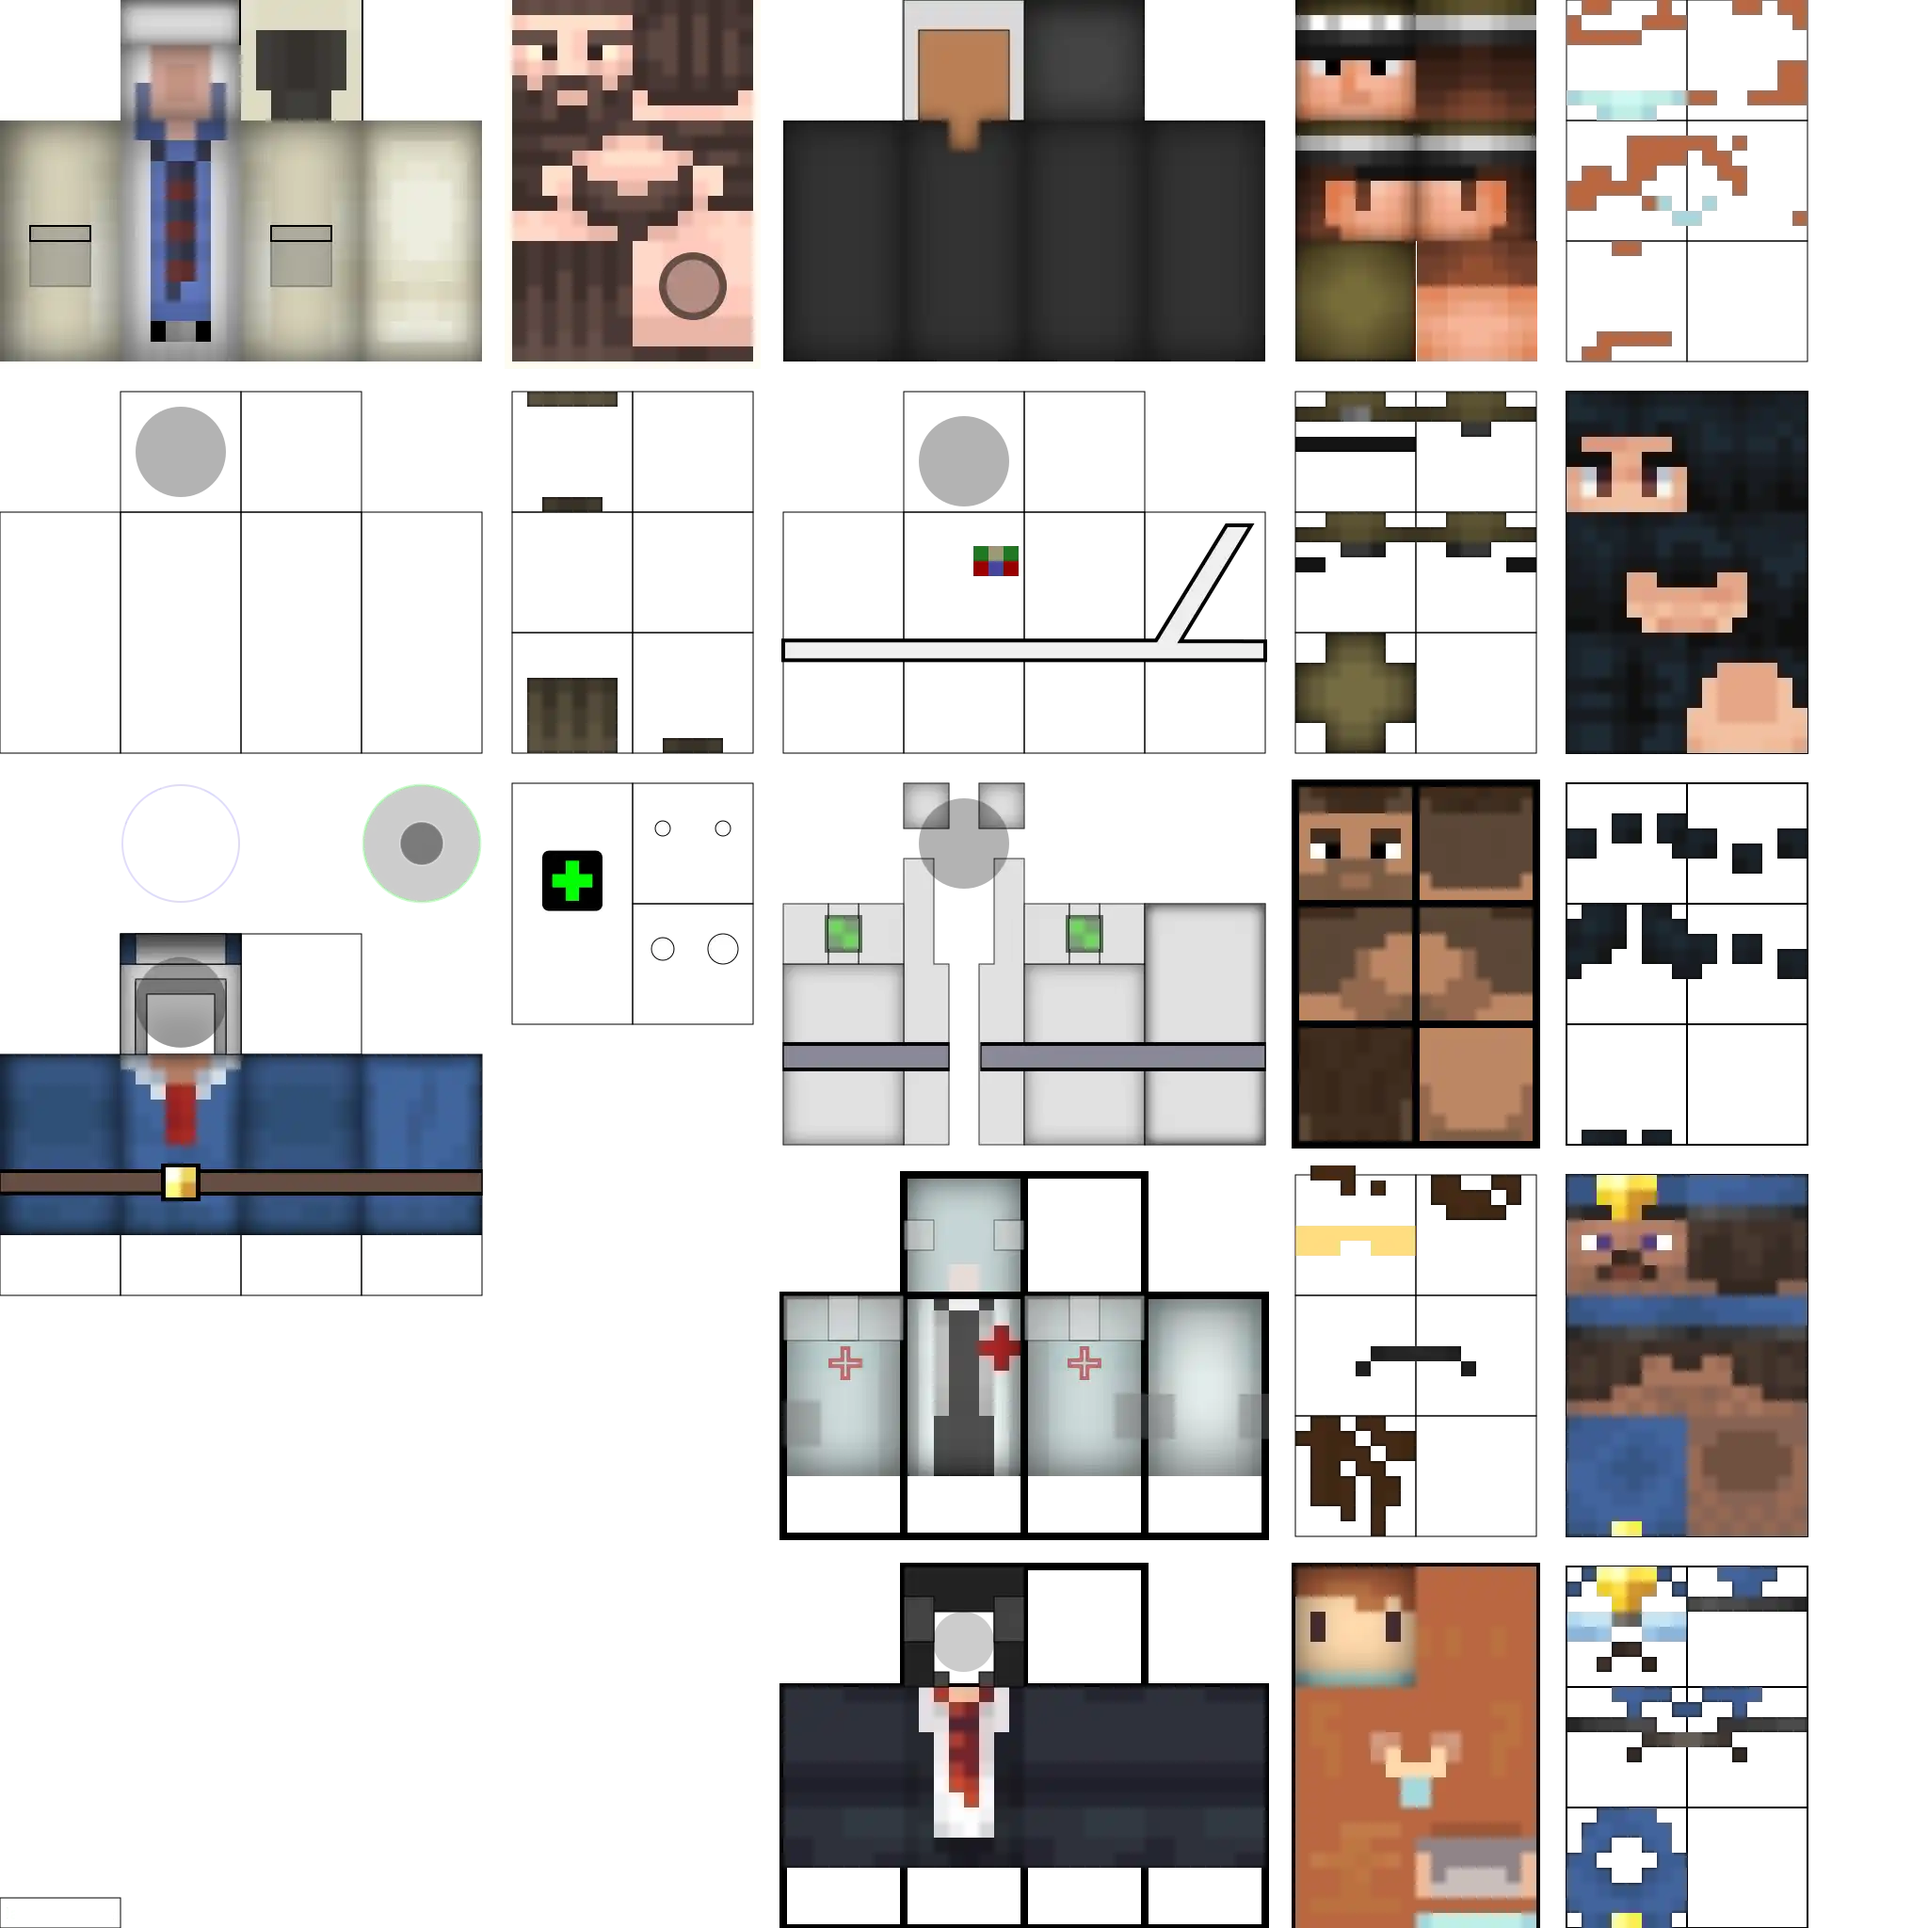
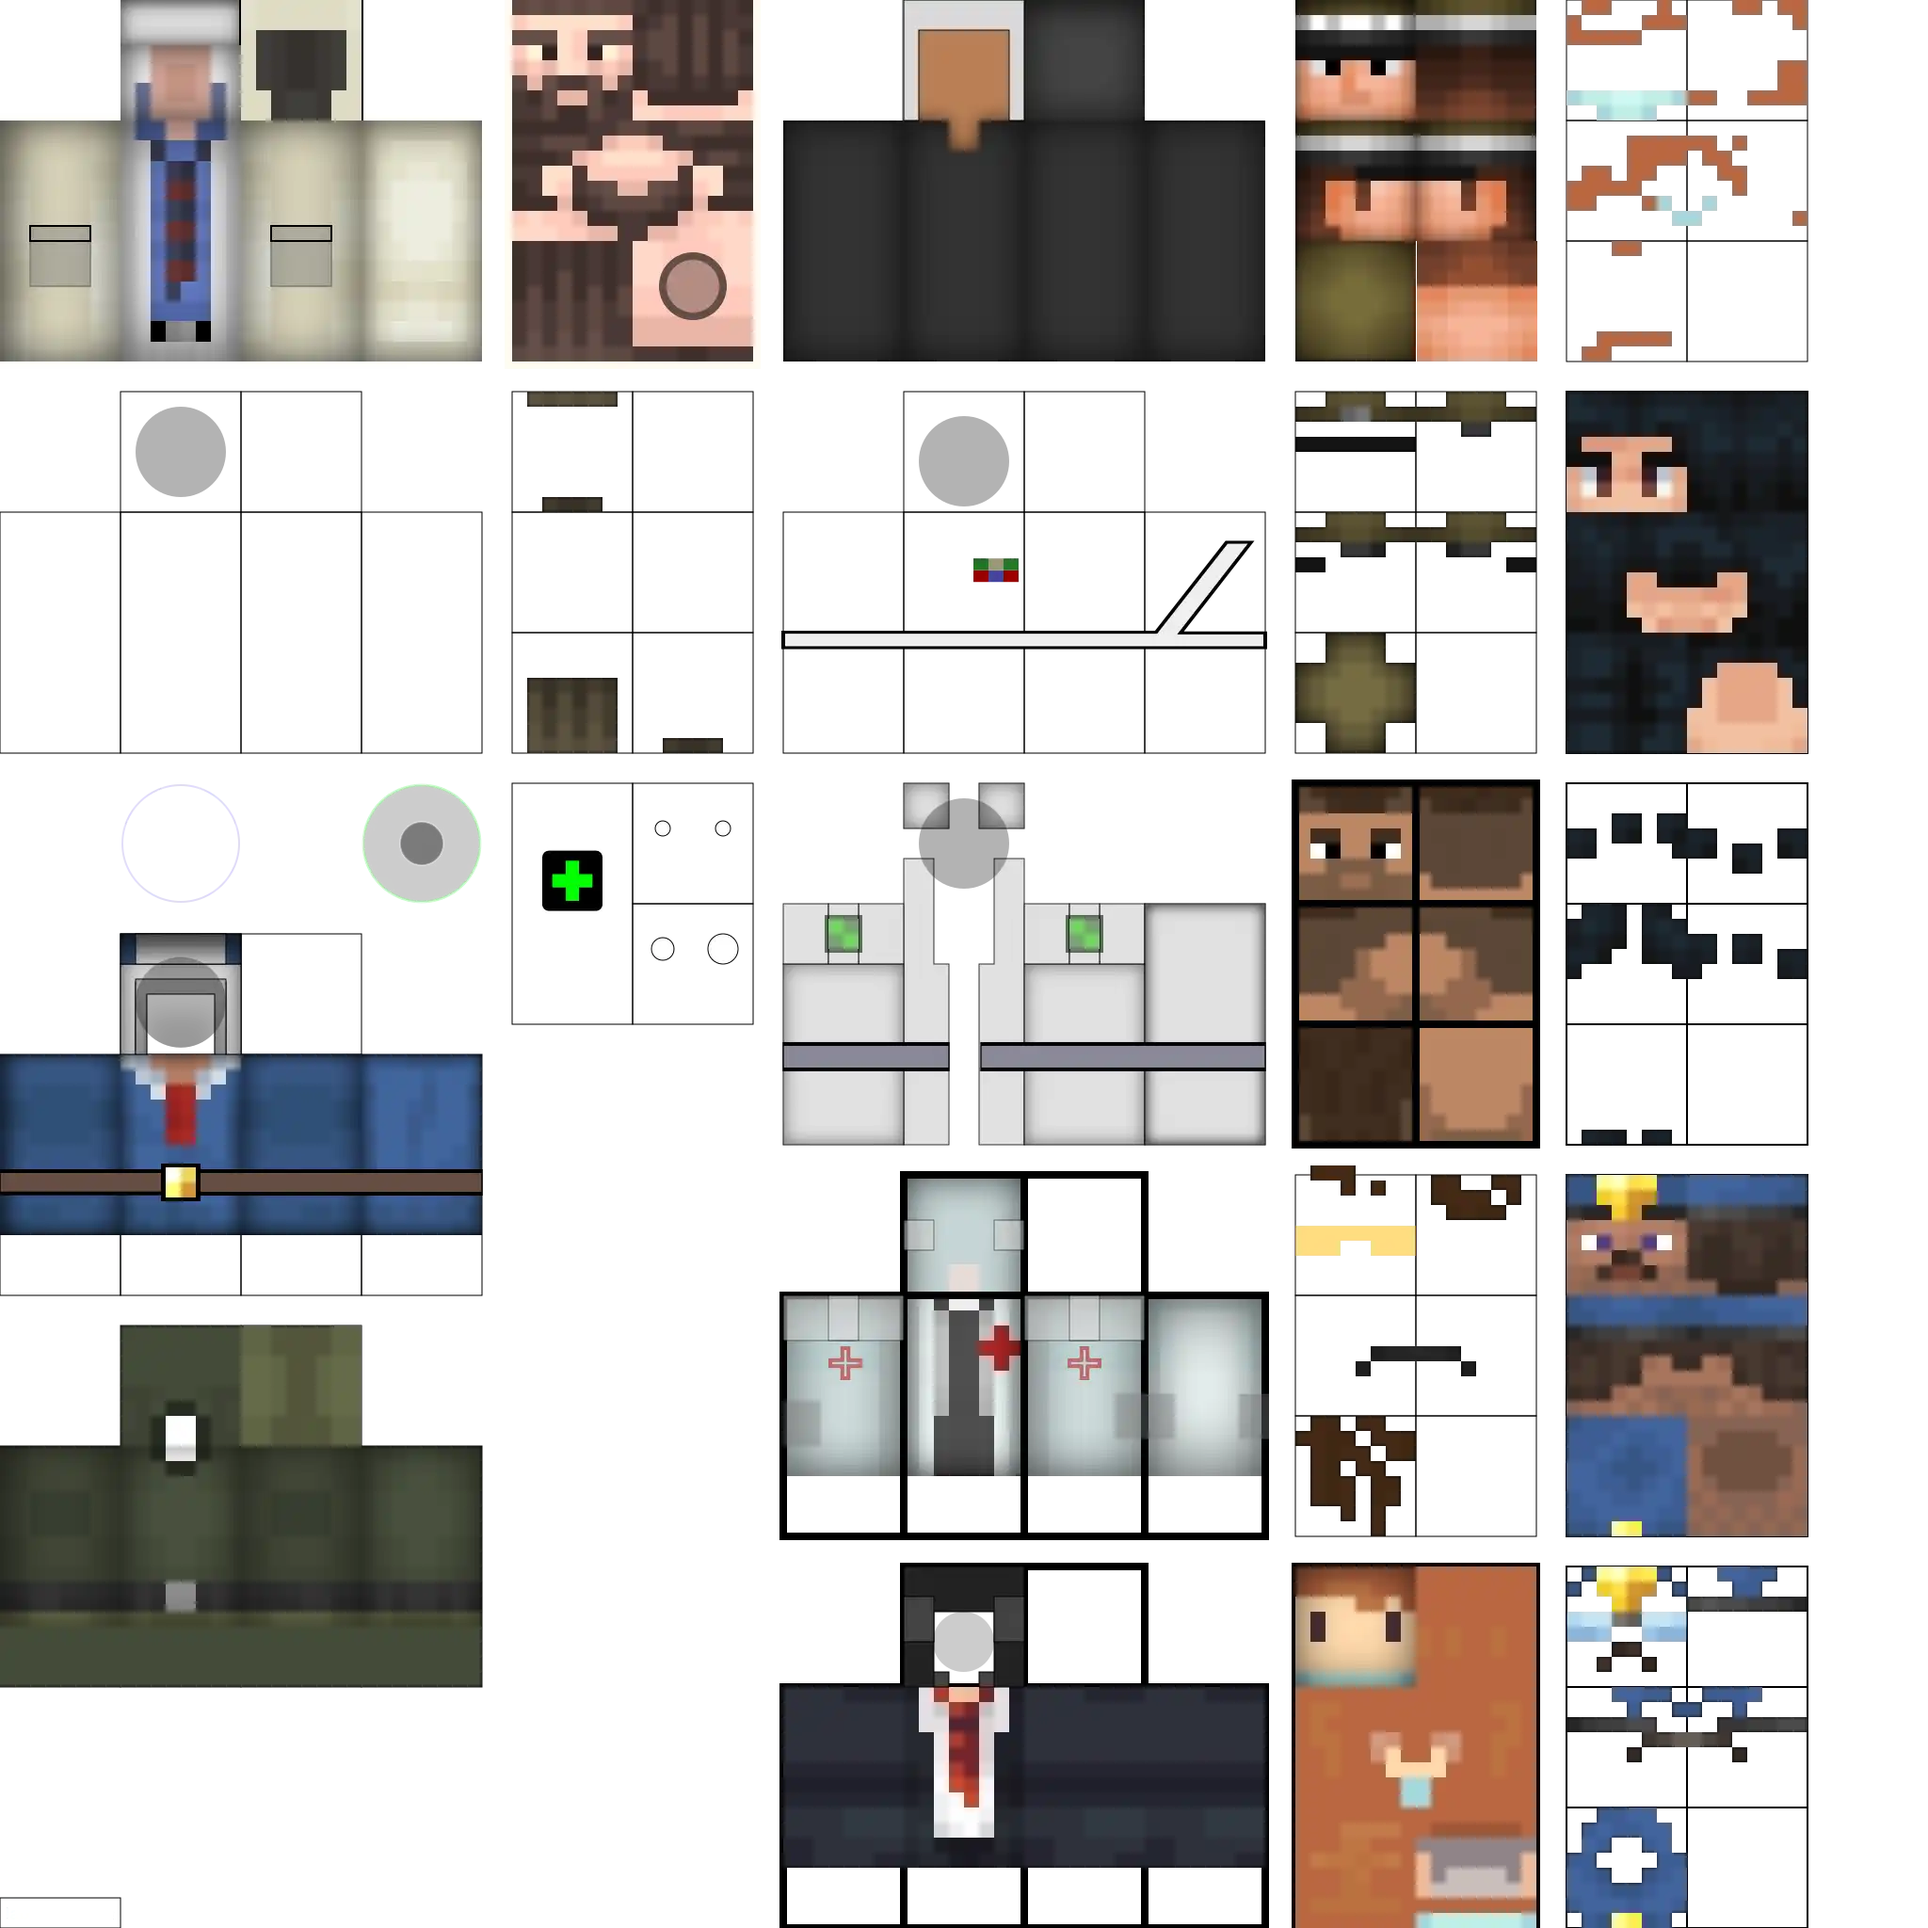
feat: can spawn with various skins easily

Changed region(s): [[0.0, 0.6875, 0.25, 0.875], [0.4062, 0.2812, 0.6562, 0.3438]]

diff --git a/npc-cli/world/Npcs.jsx b/npc-cli/world/Npcs.jsx
@@ -164,6 +164,20 @@ export default function Npcs(props) {
         npc.s.offMesh = null;
       }
     },
+    resolveSkin(shortcut) {
+      // e.g. "soldier-0" maps all
+      // e.g. "soldier-0///" only maps head, otherwise "base" skin
+      // e.g. "soldier-0/-/-/-" only maps head, nothing else changed
+      const parts = shortcut.split('/');
+      const fallback = parts[parts.length - 1];
+      const [head, body = fallback, headOverlay = fallback, bodyOverlay = fallback] = parts;
+      return {
+        ...head !== '-' && { "head-{front,back,left,right,top,bottom}": { prefix: head || 'base' } },
+        ...body !== '-' && { "body-{front,back,left,right,top,bottom}": { prefix: body || 'base' } },
+        ...headOverlay !== '-' && { "head-overlay-{front,back,left,right,top,bottom}": { prefix: headOverlay || 'base' } },
+        ...bodyOverlay !== '-' && { "body-overlay-{front,back,left,right,top,bottom}": { prefix: bodyOverlay || 'base' } },
+      };
+    },
     setupSkins() {
       // 🔔 compute sheetAux e.g. uvMap
       // 🔔 compute gltfAux e.g. triangleId -> uvRectKey
@@ -292,7 +306,12 @@ export default function Npcs(props) {
         npc.initialize(state.gltf[npc.def.classKey]);
       }
 
+      if (typeof opts.skin === 'string') {
+        opts.skin = state.resolveSkin(opts.skin);
+      }
+
       if (opts.skin !== undefined) {
+        // 🔔 opts.skin keys may be brace-expansions (normalized by applySkin)
         Object.assign(npc.skin, opts.skin);
         npc.applySkin();
       }
@@ -458,6 +477,11 @@ export default function Npcs(props) {
  * @property {(deltaMs: number) => void} onTick
  * @property {(npcKey: string) => void} remove
  * @property {(npc: NPC.NPC) => void} removeAgent
+ * @property {(shortcut: string) => Record<string, NPC.SkinReMapValue>} resolveSkin
+ * For example,
+ * - `"soldier-0"`
+ * - `"soldier-0//soldier-0/scientist-0"`
+ * - `"soldier-0/-/-/-"`
  * @property {(opts: string | NPC.SpawnOpts, position: MaybeMeta<(Geom.VectJson | THREE.Vector3Like)>) => Promise<NPC.NPC>} spawn
  * - `spawn("rob", { x, y, meta })`
  * - `spawn("rob", { x, y, z, meta })`

diff --git a/npc-cli/types/npc.d.ts b/npc-cli/types/npc.d.ts
@@ -82,7 +82,12 @@ declare namespace NPC {
 
   interface SpawnOpts extends Partial<Pick<NPCDef, 'angle' | 'classKey' | 'runSpeed' | 'walkSpeed'>> {
     npcKey: string;
-    skin?: NPC.SkinReMap;
+    // skin?: NPC.SkinReMap;
+    /**
+     * - `string` for shortcuts e.g. `soldier-0`
+     * - object permits brace-expansion of keys.
+     */
+    skin?: string | Record<string, SkinReMapValue>;
   }
 
   type Event = (

diff --git a/docs/TODO.md b/docs/TODO.md
@@ -8,7 +8,7 @@
   - https://squoosh.app/editor
   - specific size
   - scenes from films
-    - 🚧 can spawn with various skins easily
+    - ✅ can spawn with various skins easily
     - alien chest-burster scene
 
 - 🚧 refine chosen carousel embla-carousel
@@ -38,15 +38,19 @@
   - ℹ controls.minDistance measured from controls.target
 
 - ✅ top-skin-only -> plain-0
-- 🚧 skin shortcuts
+- ✅ skin shortcuts
   - ℹ e.g. `spawn '{ npcKey: "rob", skin: "soldier-0" }' $( click 1 )`
-    - `"soldier-0"` -> {head,body}{,-overlay}
-    - `"soldier-0 scientist-0 plain-0 police-0"` ->
+    - `"soldier-0"`
+    - `"soldier-0/scientist-0/plain-0/police-0"` ->
       - head `soldier-0`
       - body `scientist-0`
       - head-overlay `plain-0`
       - body-overlay `police-0`
-    - multiple spaces for gaps
+    - `"soldier-0/-/-/-"` only changes head
+
+- head-overlay-bottom uvs flipped vertically (?)
+  - fix beard on base skin
+  - possibly add beard to soldier-0-head-overlay
 
 - Ctrl-C "failure" unclear while paused
 - tty: run `spawn bar $( click 1 )` then pause... cannot click

diff --git a/README.md b/README.md
@@ -261,6 +261,7 @@ We'll try to re-map publicly available Minecraft Skins.
 
 - https://namemc.com/minecraft-skins/tag/soldier
   - 🚧 https://namemc.com/skin/45461862ef51524e
+  - 🚧 https://namemc.com/skin/e5aebae082bea6ec
 - https://namemc.com/minecraft-skins/tag/scientist
   - 🚧 https://namemc.com/skin/7161dce64d6b12be
   - 🚧 https://namemc.com/skin/72474583457b91c0
